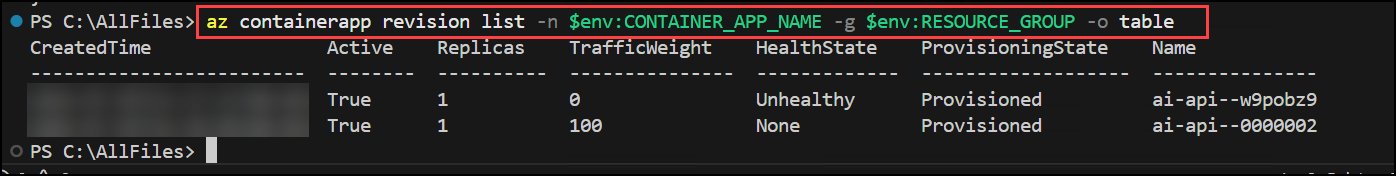
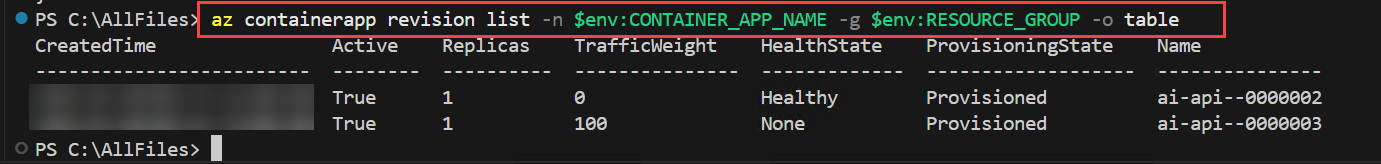
update lab 4

diff --git a/instructions/azure-container-apps/02-aca-manage-containers.md b/instructions/azure-container-apps/02-aca-manage-containers.md
@@ -17,7 +17,7 @@ In this lab, you will diagnose and fix a failing container app deployment in Azu
 
 ## Task 1: Deploy Azure Container Registry and Container App Environment
 
-In this task, you will download the project starter files and use the deployment script to create the Azure services required for the lab. You will deploy an Azure Container Registry and a Container Apps environment, which provide the foundation for hosting and troubleshooting the container app.
+In this task, you will deploy an Azure Container Registry and a Container Apps environment, which provide the foundation for hosting and troubleshooting the container app.
 
 1. Launch **Visual Studio Code** (VS Code) from desktop.
 
@@ -60,7 +60,7 @@ In this task, you will download the project starter files and use the deployment
 
    > **Note:** Do not change anything else in the script.
 
-1. Press **Ctrl+S** to save the changes.
+1. Press **Ctrl+S** to save the changes in both the scripts.
 
 1. In the menu bar, select **ellipsis (...) (1)**, then **Terminal (2)**, and then **New Terminal (3)** to open a terminal window in VS Code.
 
@@ -91,12 +91,12 @@ In this task, you will download the project starter files and use the deployment
    ![](../Images/sign-in-1.png)
 
 1. In the login window, sign in by using the provided **Azure credentials (1)** and then click **Next (2)**.
-   - **Email/Username:** <inject key="AzureAdUserEmail"></inject>
+   - **Email/Username:** <inject key="AzureAdUserEmail" enableCopy="false"></inject>
 
      ![](../Images/sign-in-2.png)
 
 1. Enter the temporary access password and click **Sign in**.
-   - **Password:** <inject key="AzureAdUserPassword"></inject>
+   - **Password:** <inject key="AzureAdUserPassword" enableCopy="false"></inject>
 
      ![](../Images/tempass.png)
 
@@ -146,7 +146,7 @@ In this task, you will download the project starter files and use the deployment
 
    ![](../Images/Lab02-Task2-4.png)
 
-1. You should see one container registry created.
+1. You should see one **Container registry** created.
 
    ![](../Images/Lab03-Task1-6.png)
 
@@ -201,6 +201,7 @@ In this task, you will download the project starter files and use the deployment
 
     echo "$FQDN"
     ```
+     ![](../Images/Lab04-Task1-10b.png)
 
     **PowerShell**
     ```powershell
@@ -217,11 +218,13 @@ In this task, you will download the project starter files and use the deployment
     ```bash
     curl -s "https://$FQDN/"
     ```
+    ![](../Images/Lab04-Task1-11b.png)
 
     **PowerShell**
     ```powershell
     Invoke-RestMethod -Uri "https://$FQDN/"
     ```
+    ![](../Images/Lab04-Task1-9.png)
 
 > **Congratulations** on completing the task! Now, it's time to validate it. Here are the steps:
 >
@@ -243,6 +246,8 @@ In this task, you will introduce a configuration problem by removing a required 
         --remove-env-vars MODEL_NAME
     ```
 
+    ![](../Images/Lab04-Task2-12b.png)
+
     **PowerShell**
     ```powershell
     az containerapp update -n $env:CONTAINER_APP_NAME -g $env:RESOURCE_GROUP `
@@ -257,6 +262,8 @@ In this task, you will introduce a configuration problem by removing a required 
     az containerapp revision list -n $CONTAINER_APP_NAME -g $RESOURCE_GROUP -o table
     ```
 
+    ![](../Images/Lab04-Task2-13b.png)
+
     **PowerShell**
     ```powershell
     az containerapp revision list -n $env:CONTAINER_APP_NAME -g $env:RESOURCE_GROUP -o table
@@ -270,10 +277,14 @@ In this task, you will introduce a configuration problem by removing a required 
     curl -s "https://$FQDN/" | jq .model
     ```
 
+    ![](../Images/Lab04-Task2-14b.png)
+
     **PowerShell**
     ```powershell
     (Invoke-RestMethod -Uri "https://$FQDN/").model
     ```
+
+    ![](../Images/Lab04-Task2-4.png)
 
 1. Run the following command to diagnose the root cause by viewing the container app's configuration. Run the following command to confirm the **MODEL_NAME** environment variable is missing.
 
@@ -283,12 +294,15 @@ In this task, you will introduce a configuration problem by removing a required 
         --query "properties.template.containers[0].env" -o table
     ```
 
+    ![](../Images/Lab04-Task2-15b.png)
+
     **PowerShell**
     ```powershell
     az containerapp show -n $env:CONTAINER_APP_NAME -g $env:RESOURCE_GROUP `
         --query "properties.template.containers[0].env" -o table
     ```
-    ![](../Images/Lab04-Task2-.png)
+
+    ![](../Images/Lab04-Task2-5.png)
 
 1. Run the following command to fix the issue by adding the `MODEL_NAME` environment variable back.
 
@@ -297,12 +311,14 @@ In this task, you will introduce a configuration problem by removing a required 
     az containerapp update -n $CONTAINER_APP_NAME -g $RESOURCE_GROUP \
         --set-env-vars MODEL_NAME=$MODEL_NAME
     ```
+    ![](../Images/Lab04-Task2-16b.png)
 
     **PowerShell**
     ```powershell
     az containerapp update -n $env:CONTAINER_APP_NAME -g $env:RESOURCE_GROUP `
         --set-env-vars MODEL_NAME=$env:MODEL_NAME
     ```
+    ![](../Images/Lab04-Task2-6.png)
 
 1. Run the following command to verify the fix by checking the root endpoint again. This confirms the application now behaves correctly from an API consumer's perspective. The response should now show the configured model name.
 
@@ -310,11 +326,13 @@ In this task, you will introduce a configuration problem by removing a required 
     ```bash
     curl -s "https://$FQDN/" | jq .model
     ```
+    ![](../Images/Lab04-Task2-17b.png)
 
     **PowerShell**
     ```powershell
     (Invoke-RestMethod -Uri "https://$FQDN/").model
     ```
+    ![](../Images/Lab04-Task2-7.png)
 
 You diagnosed and fixed a missing environment variable. Next, you diagnose a secret an ingress issue.
 
@@ -330,11 +348,14 @@ In this task, you will introduce an ingress-related problem by changing the targ
         --target-port 3000
     ```
 
+    ![](../Images/Lab04-Task3-18b.png)
+
     **PowerShell**
     ```powershell
     az containerapp ingress update -n $env:CONTAINER_APP_NAME -g $env:RESOURCE_GROUP `
         --target-port 3000
     ```
+    ![](../Images/Lab04-Task3-1.png)
 
 1. Run the following command to try to access the health endpoint to observe the symptom from an API consumer's perspective.
 
@@ -343,12 +364,17 @@ In this task, you will introduce an ingress-related problem by changing the targ
     curl -s "https://$FQDN/health"
     ```
 
+    ![](../Images/Lab04-Task3-19b.png)
+
     **PowerShell**
     ```powershell
     Invoke-RestMethod -Uri "https://$FQDN/health"
     ```
+    ![](../Images/Lab04-Task3-2.png)
 
-    The request fails or times out because Container Apps is routing traffic to port 3000, but the application listens on port 8000.
+    > **Note:** The request fails or times out because Container Apps is routing traffic to port 3000, but the application listens on port 8000.
+
+    > **Note:** Log Analytics data may take **2-5 minutes** to appear.
 
 1. Run the following command to diagnose the root cause by checking the current ingress configuration. Notice the **targetPort** is set to 3000.
 
@@ -358,11 +384,15 @@ In this task, you will introduce an ingress-related problem by changing the targ
         --query "properties.configuration.ingress" -o yaml
     ```
 
+    ![](../Images/Lab04-Task3-20b.png)
+
     **PowerShell**
     ```powershell
     az containerapp show -n $env:CONTAINER_APP_NAME -g $env:RESOURCE_GROUP `
         --query "properties.configuration.ingress" -o yaml
     ```
+
+    ![](../Images/Lab04-Task3-3.png)
 
 1. Run the following command to check the container logs to see if the application is running. You should see gunicorn startup messages indicating the app is listening on port 8000, confirming the mismatch.
 
@@ -370,11 +400,14 @@ In this task, you will introduce an ingress-related problem by changing the targ
     ```bash
     az containerapp logs show -n $CONTAINER_APP_NAME -g $RESOURCE_GROUP
     ```
+    ![](../Images/Lab04-Task3-21b.png)
 
     **PowerShell**
     ```powershell
     az containerapp logs show -n $env:CONTAINER_APP_NAME -g $env:RESOURCE_GROUP
     ```
+
+    ![](../Images/Lab04-Task3-4.png)
 
 1. Run the following command to fix the ingress configuration by setting the correct target port.
 
@@ -384,11 +417,15 @@ In this task, you will introduce an ingress-related problem by changing the targ
         --target-port 8000
     ```
 
+    ![](../Images/Lab04-Task3-22b.png)
+
     **PowerShell**
     ```powershell
     az containerapp ingress update -n $env:CONTAINER_APP_NAME -g $env:RESOURCE_GROUP `
         --target-port 8000
     ```
+
+    ![](../Images/Lab04-Task3-5.png)
 
 1. Run the following command to verify the fix by calling the health endpoint. This confirms the application is accessible from an API consumer's perspective. You should see **{"status":"healthy"}**.
 
@@ -397,10 +434,14 @@ In this task, you will introduce an ingress-related problem by changing the targ
     curl -s "https://$FQDN/health"
     ```
 
+    ![](../Images/Lab04-Task3-23b.png)
+
     **PowerShell**
     ```powershell
     Invoke-RestMethod -Uri "https://$FQDN/health"
     ```
+
+    ![](../Images/Lab04-Task3-6.png)
 
 You diagnosed and fixed an ingress configuration issue. Next, you learn how to query historical logs.
 
@@ -418,6 +459,8 @@ In this task, you will use Log Analytics to review historical container logs and
     echo "Workspace ID: $WORKSPACE_ID"
     ```
 
+    ![](../Images/Lab04-Task4-24b.png)
+
     **PowerShell**
     ```powershell
     $WORKSPACE_ID = az containerapp env show -n $env:ACA_ENVIRONMENT -g $env:RESOURCE_GROUP `
@@ -425,8 +468,9 @@ In this task, you will use Log Analytics to review historical container logs and
 
     Write-Output "Workspace ID: $WORKSPACE_ID"
     ```
+    ![](../Images/Lab04-Task4-1.png)
 
-1. Run the following command to query the console logs for your container app. This returns the last 20 log entries showing timestamp and message.
+1. Run the following command to query the console logs for your container app. Press **Y** for installing log-analytics extension. This returns the last 20 log entries showing timestamp and message.
 
     **Bash**
     ```bash
@@ -435,6 +479,8 @@ In this task, you will use Log Analytics to review historical container logs and
         -o table
     ```
 
+    ![](../Images/Lab04-Task4-25b.png)
+
     **PowerShell**
     ```powershell
     az monitor log-analytics query -w $WORKSPACE_ID `
@@ -442,8 +488,9 @@ In this task, you will use Log Analytics to review historical container logs and
         -o table
     ```
 
-    > [!NOTE]
-    > Log Analytics data may take a few minutes to appear after events occur. If you don't see recent logs, wait a few minutes and try again.
+    ![](../Images/Lab04-Task4-2.png)
+    
+    > **NOTE:** Log Analytics data may take a few minutes to appear after events occur. If you don't see recent logs, wait a few minutes and try again.
 
 1. Run the following command to query for error-level logs specifically.
 
@@ -453,6 +500,8 @@ In this task, you will use Log Analytics to review historical container logs and
         --analytics-query "ContainerAppConsoleLogs_CL | where ContainerAppName_s == '$CONTAINER_APP_NAME' and Log_s contains 'error' | order by TimeGenerated desc | take 20" \
         -o table
     ```
+    ![](../Images/Lab04-Task4-26b.png)
+
 
     **PowerShell**
     ```powershell
@@ -461,24 +510,9 @@ In this task, you will use Log Analytics to review historical container logs and
         -o table
     ```
 
+    ![](../Images/Lab04-Task4-3.png)
+
 These queries help you investigate issues that occurred in the past, even after container restarts or revision changes.
-
-
-## Troubleshooting
-
-If you encounter issues during this exercise, try these steps:
-
-**Container app not responding**
-- Check if the revision is active using **az containerapp revision list**
-- Verify ingress is configured using **az containerapp show**
-
-**Cannot see logs**
-- Console logs are recent only. Use Log Analytics for historical data.
-- Log Analytics data may take 2-5 minutes to appear.
-
-**Environment variables not taking effect**
-- Container Apps creates a new revision when you change environment variables. Verify the new revision is active.
-- Use **--replace-env-vars** carefully—it replaces all environment variables, not just the ones you specify.
 
 ### Summary
 

diff --git a/instructions/AI200-gettingstartedpages/Lab02-Gettingstarted.md b/instructions/AI200-gettingstartedpages/Lab02-Gettingstarted.md
@@ -54,7 +54,7 @@ The lab architecture demonstrates ... :
  
 Once you're ready to dive in, your virtual machine and **Guide** will be right at your fingertips within your web browser.
  
-![Access Your VM and Lab Guide; pending](../Images/lab2-vm.png)
+    ![](../Images/lab2-vm.png)
 
 ## Virtual Machine & Lab Guide
  
@@ -112,7 +112,7 @@ To adjust the zoom level for the environment page, click the **A↕: 100%** icon
 
 1. If a **Welcome to Microsoft Azure** pop-up window appears, simply click **Maybe later** to skip the tour.
 
-    ![](../Images/lab2-w.png)
+    ![](../Images/Welcomeimg.png)
 
 
 ## Support Contact

diff --git a/instructions/AI200-gettingstartedpages/Lab03-Gettingstarted.md b/instructions/AI200-gettingstartedpages/Lab03-Gettingstarted.md
@@ -112,7 +112,7 @@ To adjust the zoom level for the environment page, click the **A↕: 100%** icon
 
 1. If a **Welcome to Microsoft Azure** pop-up window appears, simply click **Maybe later** to skip the tour.
 
-    ![](../Images/lab3-w.png)
+    ![](../Images/Welcomeimg.png)
 
 
 ## Support Contact

diff --git a/instructions/AI200-gettingstartedpages/Lab04-Gettingstarted.md b/instructions/AI200-gettingstartedpages/Lab04-Gettingstarted.md
@@ -112,7 +112,7 @@ To adjust the zoom level for the environment page, click the **A↕: 100%** icon
 
 1. If a **Welcome to Microsoft Azure** pop-up window appears, simply click **Maybe later** to skip the tour.
 
-    ![](../Images/lab4-w.png)
+    ![](../Images/Welcomeimg.png)
 
 
 ## Support Contact

diff --git a/instructions/AI200-gettingstartedpages/Lab05-Gettingstarted.md b/instructions/AI200-gettingstartedpages/Lab05-Gettingstarted.md
@@ -112,7 +112,7 @@ To adjust the zoom level for the environment page, click the **A↕: 100%** icon
 
 1. If a **Welcome to Microsoft Azure** pop-up window appears, simply click **Maybe later** to skip the tour.
 
-    ![](../Images/lab5-w.png)
+    ![](../Images/Welcomeimg.png)
 
 
 ## Support Contact